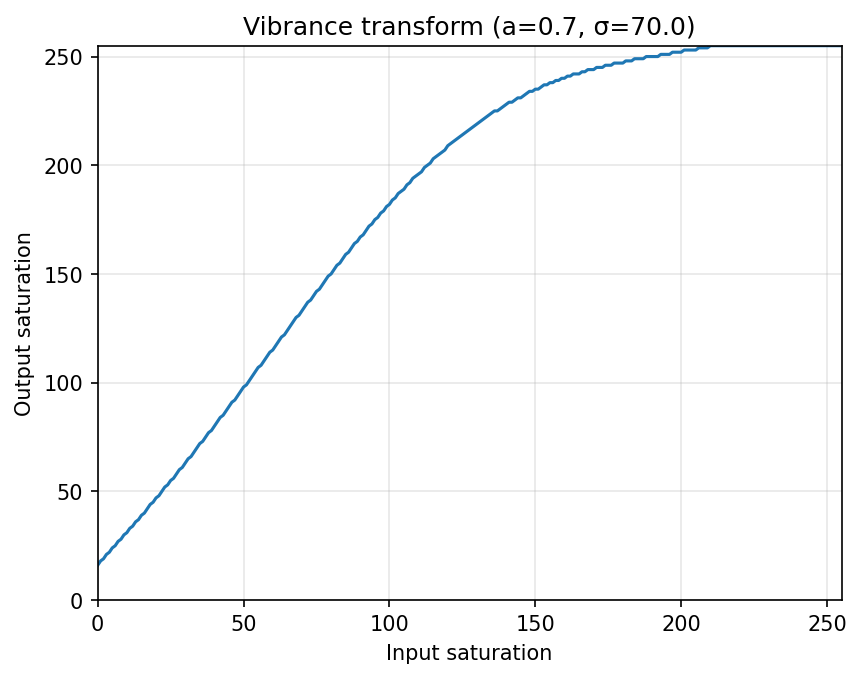
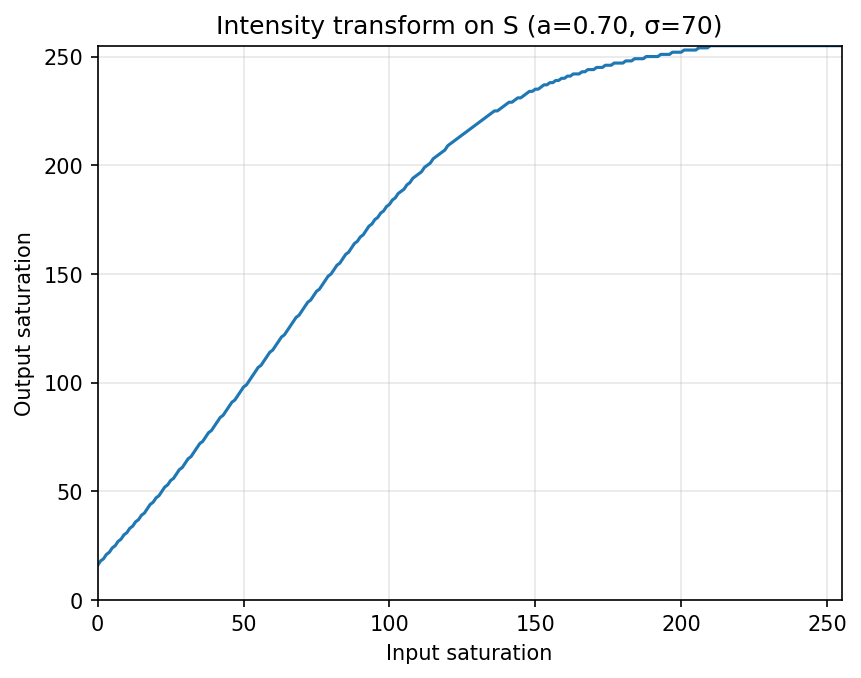
feat: vibrance enhancement via Gaussian-boost LUT on HSV saturation

Changed region(s): [[0.2416, 0.0, 0.8455, 0.0619]]

diff --git a/q4_vibrance.py b/q4_vibrance.py
@@ -10,18 +10,19 @@ def load_rgb(path: Path) -> np.ndarray:
     return np.array(Image.open(path).convert("RGB"))
 
 
-def save_rgb(rgb: np.ndarray, path: Path):
+def save_rgb(img: np.ndarray, path: Path):
     path.parent.mkdir(parents=True, exist_ok=True)
-    Image.fromarray(rgb).save(path)
+    Image.fromarray(img).save(path)
     print("Saved:", path)
 
 
-def vibrance_lut(a: float = 0.7, sigma: float = 70.0) -> np.ndarray:
-    """
-    Build 256-value LUT for:
-        f(x) = min( x + a*128*exp(-((x-128)^2)/(2*sigma^2)), 255 )
-    x in [0,255], returns uint8.
-    """
+def save_gray(img_u8: np.ndarray, path: Path):
+    path.parent.mkdir(parents=True, exist_ok=True)
+    Image.fromarray(img_u8).save(path)
+    print("Saved:", path)
+
+
+def vibrance_lut(a: float, sigma: float) -> np.ndarray:
     x = np.arange(256, dtype=np.float32)
     boost = a * 128.0 * np.exp(-((x - 128.0) ** 2) / (2.0 * sigma ** 2))
     y = np.minimum(x + boost, 255.0)
@@ -44,39 +45,81 @@ def plot_curve(lut: np.ndarray, title: str, out_path: Path):
     print("Saved:", out_path)
 
 
+def plot_hist_s(S: np.ndarray, S_new: np.ndarray, out_path: Path):
+    out_path.parent.mkdir(parents=True, exist_ok=True)
+    plt.figure()
+    plt.hist(S.ravel(), bins=256, range=(0, 255), alpha=0.6, label="S (orig)")
+    plt.hist(S_new.ravel(), bins=256, range=(
+        0, 255), alpha=0.6, label="S (enhanced)")
+    plt.xlim(0, 255)
+    plt.xlabel("S value")
+    plt.ylabel("Count")
+    plt.title("Saturation histograms (before/after)")
+    plt.legend()
+    plt.grid(True, alpha=0.3)
+    plt.savefig(out_path, bbox_inches="tight", dpi=150)
+    plt.close()
+    print("Saved:", out_path)
+
+
+def side_by_side(orig_rgb: np.ndarray, enhanced_rgb: np.ndarray, a: float, sigma: float, out_path: Path):
+    out_path.parent.mkdir(parents=True, exist_ok=True)
+    plt.figure(figsize=(10, 4))
+    plt.subplot(1, 2, 1)
+    plt.imshow(orig_rgb)
+    plt.axis("off")
+    plt.title("Original")
+    plt.subplot(1, 2, 2)
+    plt.imshow(enhanced_rgb)
+    plt.axis("off")
+    plt.title(f"Vibrance (a={a:.2f}, σ={sigma:.0f})")
+    plt.tight_layout()
+    plt.savefig(out_path, bbox_inches="tight", dpi=150)
+    plt.close()
+    print("Saved:", out_path)
+
+
 def main():
     parser = argparse.ArgumentParser(
-        description="Q4: Vibrance enhancement on S channel (HSV).")
-    parser.add_argument("--input", default="assets/spiderman.png")
+        description="Q4: Vibrance enhancement on HSV Saturation.")
+    parser.add_argument("--input",  default="assets/spiderman.png")
     parser.add_argument("--outdir", default="outputs/q4")
-    parser.add_argument("--a", type=float, default=0.7,
-                        help="Strength parameter a in [0,1].")
-    parser.add_argument("--sigma", type=float, default=70.0,
-                        help="Sigma for Gaussian boost (default 70).")
+    parser.add_argument("--a",      type=float, default=0.7,
+                        help="Strength a in [0,1]")
+    parser.add_argument("--sigma",  type=float, default=70.0,
+                        help="Gaussian sigma (default 70)")
     args = parser.parse_args()
 
-    in_path = Path(args.input)
     outdir = Path(args.outdir)
     outdir.mkdir(parents=True, exist_ok=True)
 
-    # Load RGB → HSV
-    rgb = load_rgb(in_path)
-    hsv = cv2.cvtColor(rgb, cv2.COLOR_RGB2HSV)
+    # (a) Split image to H, S, V
+    rgb = load_rgb(Path(args.input))
+    hsv = cv2.cvtColor(rgb, cv2.COLOR_RGB2HSV)  # H:[0,179], S,V:[0,255]
     H, S, V = cv2.split(hsv)
+    save_gray(H, outdir / "H.png")
+    save_gray(S, outdir / "S.png")
+    save_gray(V, outdir / "V.png")
 
-    # Build LUT and apply on Saturation
+    # (b) Apply the given transform to S using LUT
     lut = vibrance_lut(a=args.a, sigma=args.sigma)
     S_new = lut[S]
 
-    # Merge and convert back to RGB
+    # (c) Parameter a is adjustable; print/report chosen value
+    print(f"Chosen a = {args.a:.2f}, sigma = {args.sigma:.0f}")
+
+    # (d) Recombine and convert back to RGB
     hsv_new = cv2.merge([H, S_new, V])
     rgb_new = cv2.cvtColor(hsv_new, cv2.COLOR_HSV2RGB)
 
-    # Save outputs
-    save_rgb(rgb, outdir / "original.png")
-    save_rgb(rgb_new, outdir / "vibrance_a{:.2f}.png".format(args.a))
+    # (e) Save required outputs
+    save_rgb(rgb,     outdir / "original.png")
+    save_rgb(rgb_new, outdir / f"vibrance_a{args.a:.2f}.png")
     plot_curve(
-        lut, f"Vibrance transform (a={args.a}, σ={args.sigma})", outdir / "vibrance_curve.png")
+        lut, f"Intensity transform on S (a={args.a:.2f}, σ={args.sigma:.0f})", outdir / "vibrance_curve.png")
+    plot_hist_s(S, S_new, outdir / "saturation_hist_before_after.png")
+    side_by_side(rgb, rgb_new, args.a, args.sigma,
+                 outdir / "comparison_side_by_side.png")
 
 
 if __name__ == "__main__":
